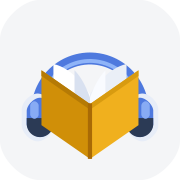
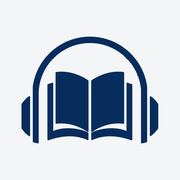
Descartar encabezados y pies corridos; icono definitivo
Los encabezados y pies de pagina corridos (titulo del libro, capitulo,
numeracion) se leian en voz alta y ademas se interponian entre las dos
mitades de una frase partida por el salto de pagina, impidiendo unirlas.
Ahora se detectan por posicion (texto corto pegado al margen superior o
inferior de la pagina) y se descartan antes de unir las continuaciones.
La comparacion de tipografia pasa a ser relativa al tamano.

Icono: se adopta el proporcionado por el autor.

diff --git a/extract.js b/extract.js
@@ -77,9 +77,11 @@ const PAGE_FURNITURE = /^\s*(\d{1,4}|[ivxlcdmIVXLCDM]{1,7}|[-–—|]{1,3}\s*\d{
    mitad de una frase: sin unirlos, la voz haría una pausa que rompe el sentido. */
 function continuesSentence(prev, next) {
   if (!prev.text || !next.text) return false;
-  if (Math.abs(prev.avgSize - next.avgSize) > 1.2) return false;   // tipografía distinta: no es continuación
+  const scale = Math.max(prev.avgSize, next.avgSize);
+  if (Math.abs(prev.avgSize - next.avgSize) > scale * 0.12) return false;  // tipografía distinta
   const hyphenated = /[-‐‑–]$/.test(prev.text);
   const openEnded = hyphenated || !/[.!?…:;»"'”’)\]]\s*$/.test(prev.text);
+  // Continúa si arranca en minúscula, o con una conjunción/preposición típica de enlace.
   const startsLower = /^[a-záéíóúüñ]/.test(next.text);
   return openEnded && startsLower;
 }
@@ -87,7 +89,9 @@ function continuesSentence(prev, next) {
 function joinContinuations(blocks) {
   const out = [];
   for (const block of blocks) {
-    if (PAGE_FURNITURE.test(block.text)) continue;                 // número de página suelto
+    // Los encabezados y pies corridos se descartan: además de leerse en voz alta,
+    // se interponían entre las dos mitades de una frase e impedían unirlas.
+    if (block.furniture || PAGE_FURNITURE.test(block.text)) continue;
     const prev = out[out.length - 1];
     if (prev && continuesSentence(prev, block)) {
       if (/[-‐‑–]$/.test(prev.text)) {
@@ -164,7 +168,7 @@ function linesFromItems(items) {
   return lines.filter((l) => l.text);
 }
 
-function blocksFromLines(lines, pageNumber) {
+function blocksFromLines(lines, pageNumber, pageHeight) {
   const blocks = [];
   let current = null;
   let prev = null;
@@ -175,13 +179,16 @@ function blocksFromLines(lines, pageNumber) {
       : false;
     const newBlock = !current || !prev || gap > Math.max(line.avgSize, prev.avgSize) * 1.7 || sizeJump;
     if (newBlock) {
-      current = { texts: [], weighted: 0, chars: 0, boldChars: 0, page: pageNumber };
+      current = { texts: [], weighted: 0, chars: 0, boldChars: 0, page: pageNumber,
+                  top: line.y, bottom: line.y };
       blocks.push(current);
     }
     current.texts.push(line.text);
     current.weighted += line.avgSize * line.chars;
     current.chars += line.chars;
     current.boldChars += line.boldFrac * line.chars;
+    current.top = Math.max(current.top, line.y);
+    current.bottom = Math.min(current.bottom, line.y);
     prev = line;
   }
   return blocks
@@ -191,8 +198,19 @@ function blocksFromLines(lines, pageNumber) {
       avgSize: b.chars ? b.weighted / b.chars : 10,
       boldFrac: b.chars ? b.boldChars / b.chars : 0,
       chars: b.chars,
+      // Encabezado o pie corrido: texto corto pegado al margen superior o inferior.
+      furniture: isRunningHeadOrFoot(b, pageHeight),
     }))
     .filter((b) => b.text.length >= MIN_SEGMENT_CHARS);
+}
+
+function isRunningHeadOrFoot(block, pageHeight) {
+  if (!pageHeight) return false;
+  const text = cleanBlock(block.texts.join(" "));
+  if (text.length > 90 || block.texts.length > 2) return false;
+  const nearTop = block.bottom > pageHeight * 0.92;
+  const nearBottom = block.top < pageHeight * 0.08;
+  return nearTop || nearBottom;
 }
 
 /* ---- chapters from the PDF outline (source A) ---- */
@@ -267,8 +285,9 @@ export async function extractFromPdf(arrayBuffer, fileName) {
   for (let p = 1; p <= pdf.numPages; p++) {
     const page = await pdf.getPage(p);
     const content = await page.getTextContent();
+    const pageHeight = page.getViewport({ scale: 1 }).height;
     const lines = linesFromItems(content.items);
-    for (const block of blocksFromLines(lines, p)) {
+    for (const block of blocksFromLines(lines, p, pageHeight)) {
       rawBlocks.push(block);
       const key = Math.round(block.avgSize * 10) / 10;
       sizeCount.set(key, (sizeCount.get(key) || 0) + block.chars);

diff --git a/index.html b/index.html
@@ -13,7 +13,7 @@
   <link rel="preconnect" href="https://fonts.googleapis.com">
   <link rel="preconnect" href="https://fonts.gstatic.com" crossorigin>
   <link rel="stylesheet" href="https://fonts.googleapis.com/css2?family=Fraunces:opsz,wght@9..144,600;9..144,700&family=Inter:wght@400;500;600&family=Source+Serif+4:opsz,wght@8..60,400;8..60,600&family=Nunito:wght@400;600&family=Atkinson+Hyperlegible:wght@400;700&display=swap">
-  <link rel="stylesheet" href="styles.css?v=4">
+  <link rel="stylesheet" href="styles.css?v=5">
 </head>
 <body>
 
@@ -148,6 +148,6 @@
 
   <div id="toast" class="hidden"></div>
   <!-- ?v= evita que un navegador mezcle el HTML nuevo con scripts viejos en caché -->
-  <script type="module" src="app.js?v=4"></script>
+  <script type="module" src="app.js?v=5"></script>
 </body>
 </html>

diff --git a/app.js b/app.js
@@ -2,13 +2,13 @@
    oraciones con las voces del propio dispositivo y resaltado palabra a palabra. */
 "use strict";
 
-import { extractFromPdf } from "./extract.js?v=4";
-import { splitSentences } from "./sentences.js?v=4";
+import { extractFromPdf } from "./extract.js?v=5";
+import { splitSentences } from "./sentences.js?v=5";
 import {
   loadSettings, persistSettings,
   getLibrary, saveLibrary, getDoc, saveDoc, deleteDoc, savePosition as storePosition,
   getCachedTranslation, cacheTranslation,
-} from "./storage.js?v=4";
+} from "./storage.js?v=5";
 
 const $ = (id) => document.getElementById(id);
 
